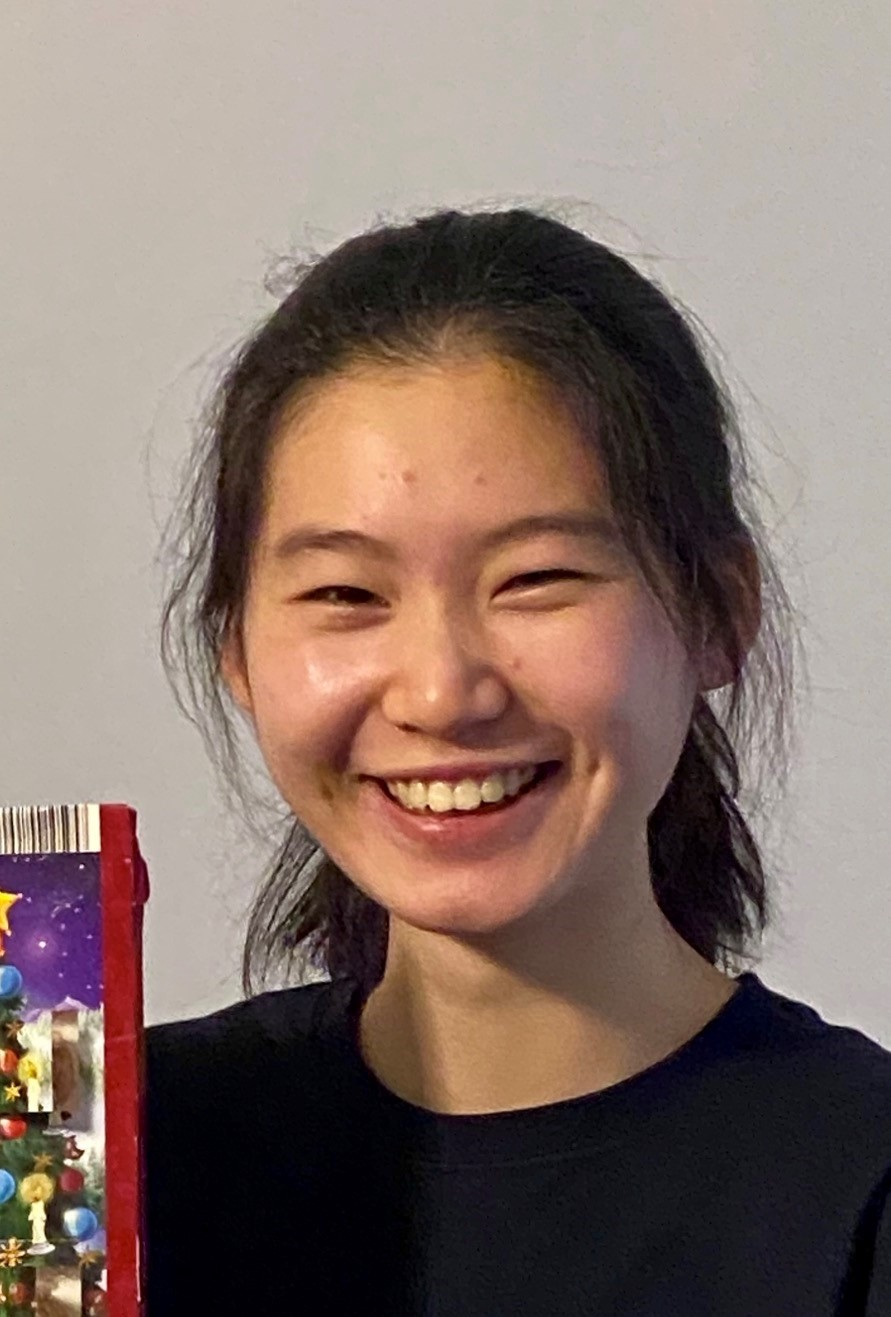
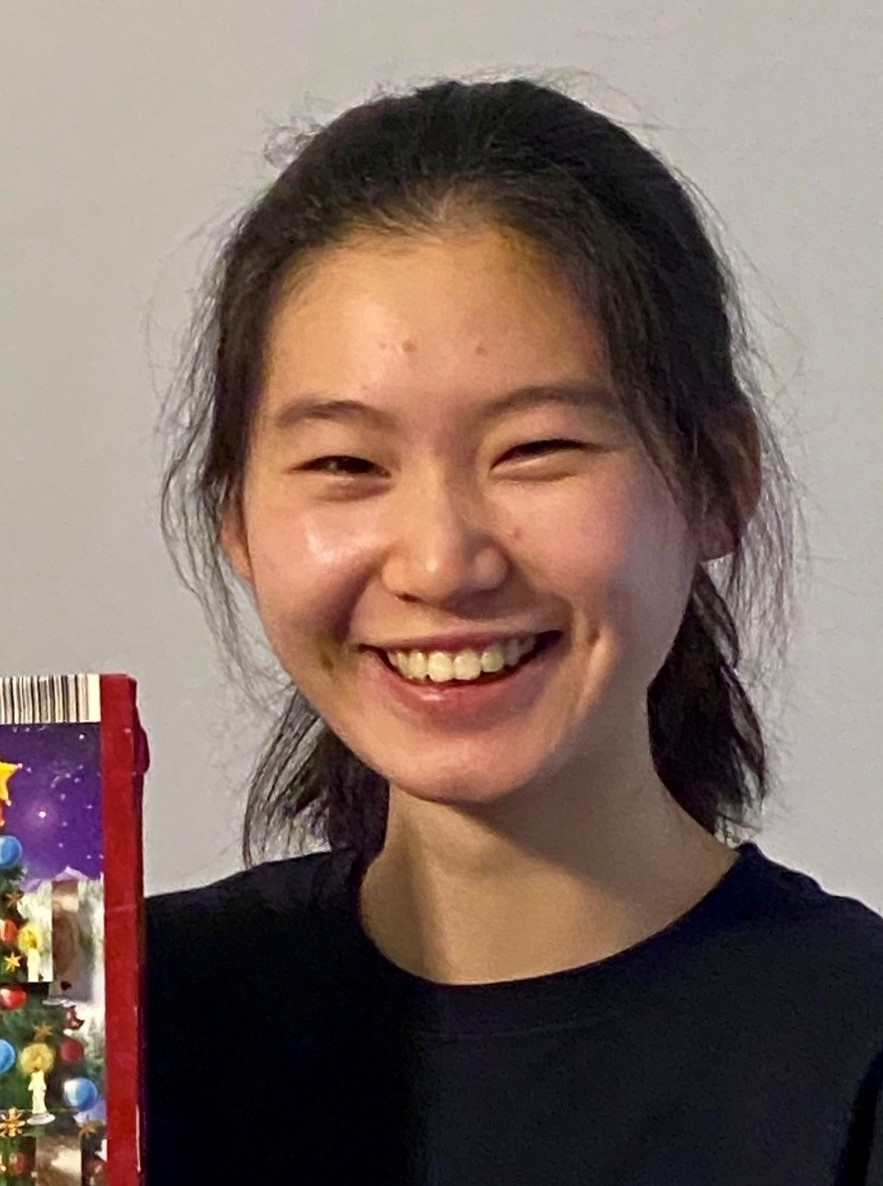
replaced profile image

diff --git a/docs/index.md b/docs/index.md
@@ -67,19 +67,19 @@ Hey, my name is Ayush and I am a Engineering: Computing Major at the Olin Colleg
 
 <br><br>
 
-<img src="profile-pictures/Jiayuan.jpeg" width ="18%" height = "30%" style="float:right;margin:10px 0px">
+<img src="profile-pictures/Jiayuan.jpeg" width ="16%" height = "30%" style="float:left;margin:0px 10px 0px 0px">
 
 **[Jiayuan Liu](https://github.com/Chidunbo)** 
 Hi I am Jiayuan. In this project, I am in charge of the game workflow, visualization and sound effect aspect of the game. I am interested in game design and public interest technology.
 
-<br><br><br><br>
+<br><br>
 
-<img src="profile-pictures/Anmol.jpg" width ="20%" height = "30%" style="float:left;margin:0px 10px 0px 0px">   
+<img src="profile-pictures/Anmol.jpg" width ="19%" height = "30%" style="float:left;margin:0px 10px 0px 0px">   
 
 **[Anmol Sandhu](https://github.com/AnmolRattanSingh)**
 Hey, I am Anmol. I am a Engineering: Computing major at Olin College. For this game I worked on implementing OpenCV to parse user input and also creating game masks. I am passionate about using platform technologies for solving social and environmental problems.   
 
-<br>
+<br><br><br>
 
 ### Acknowledgements
 1. Major inspiration for this game comes from Nickelodeon's game show, Hole in the Wall. Many of the features of our game are based on design features of the real life game and our implementation wouldn't have been possible without it.
